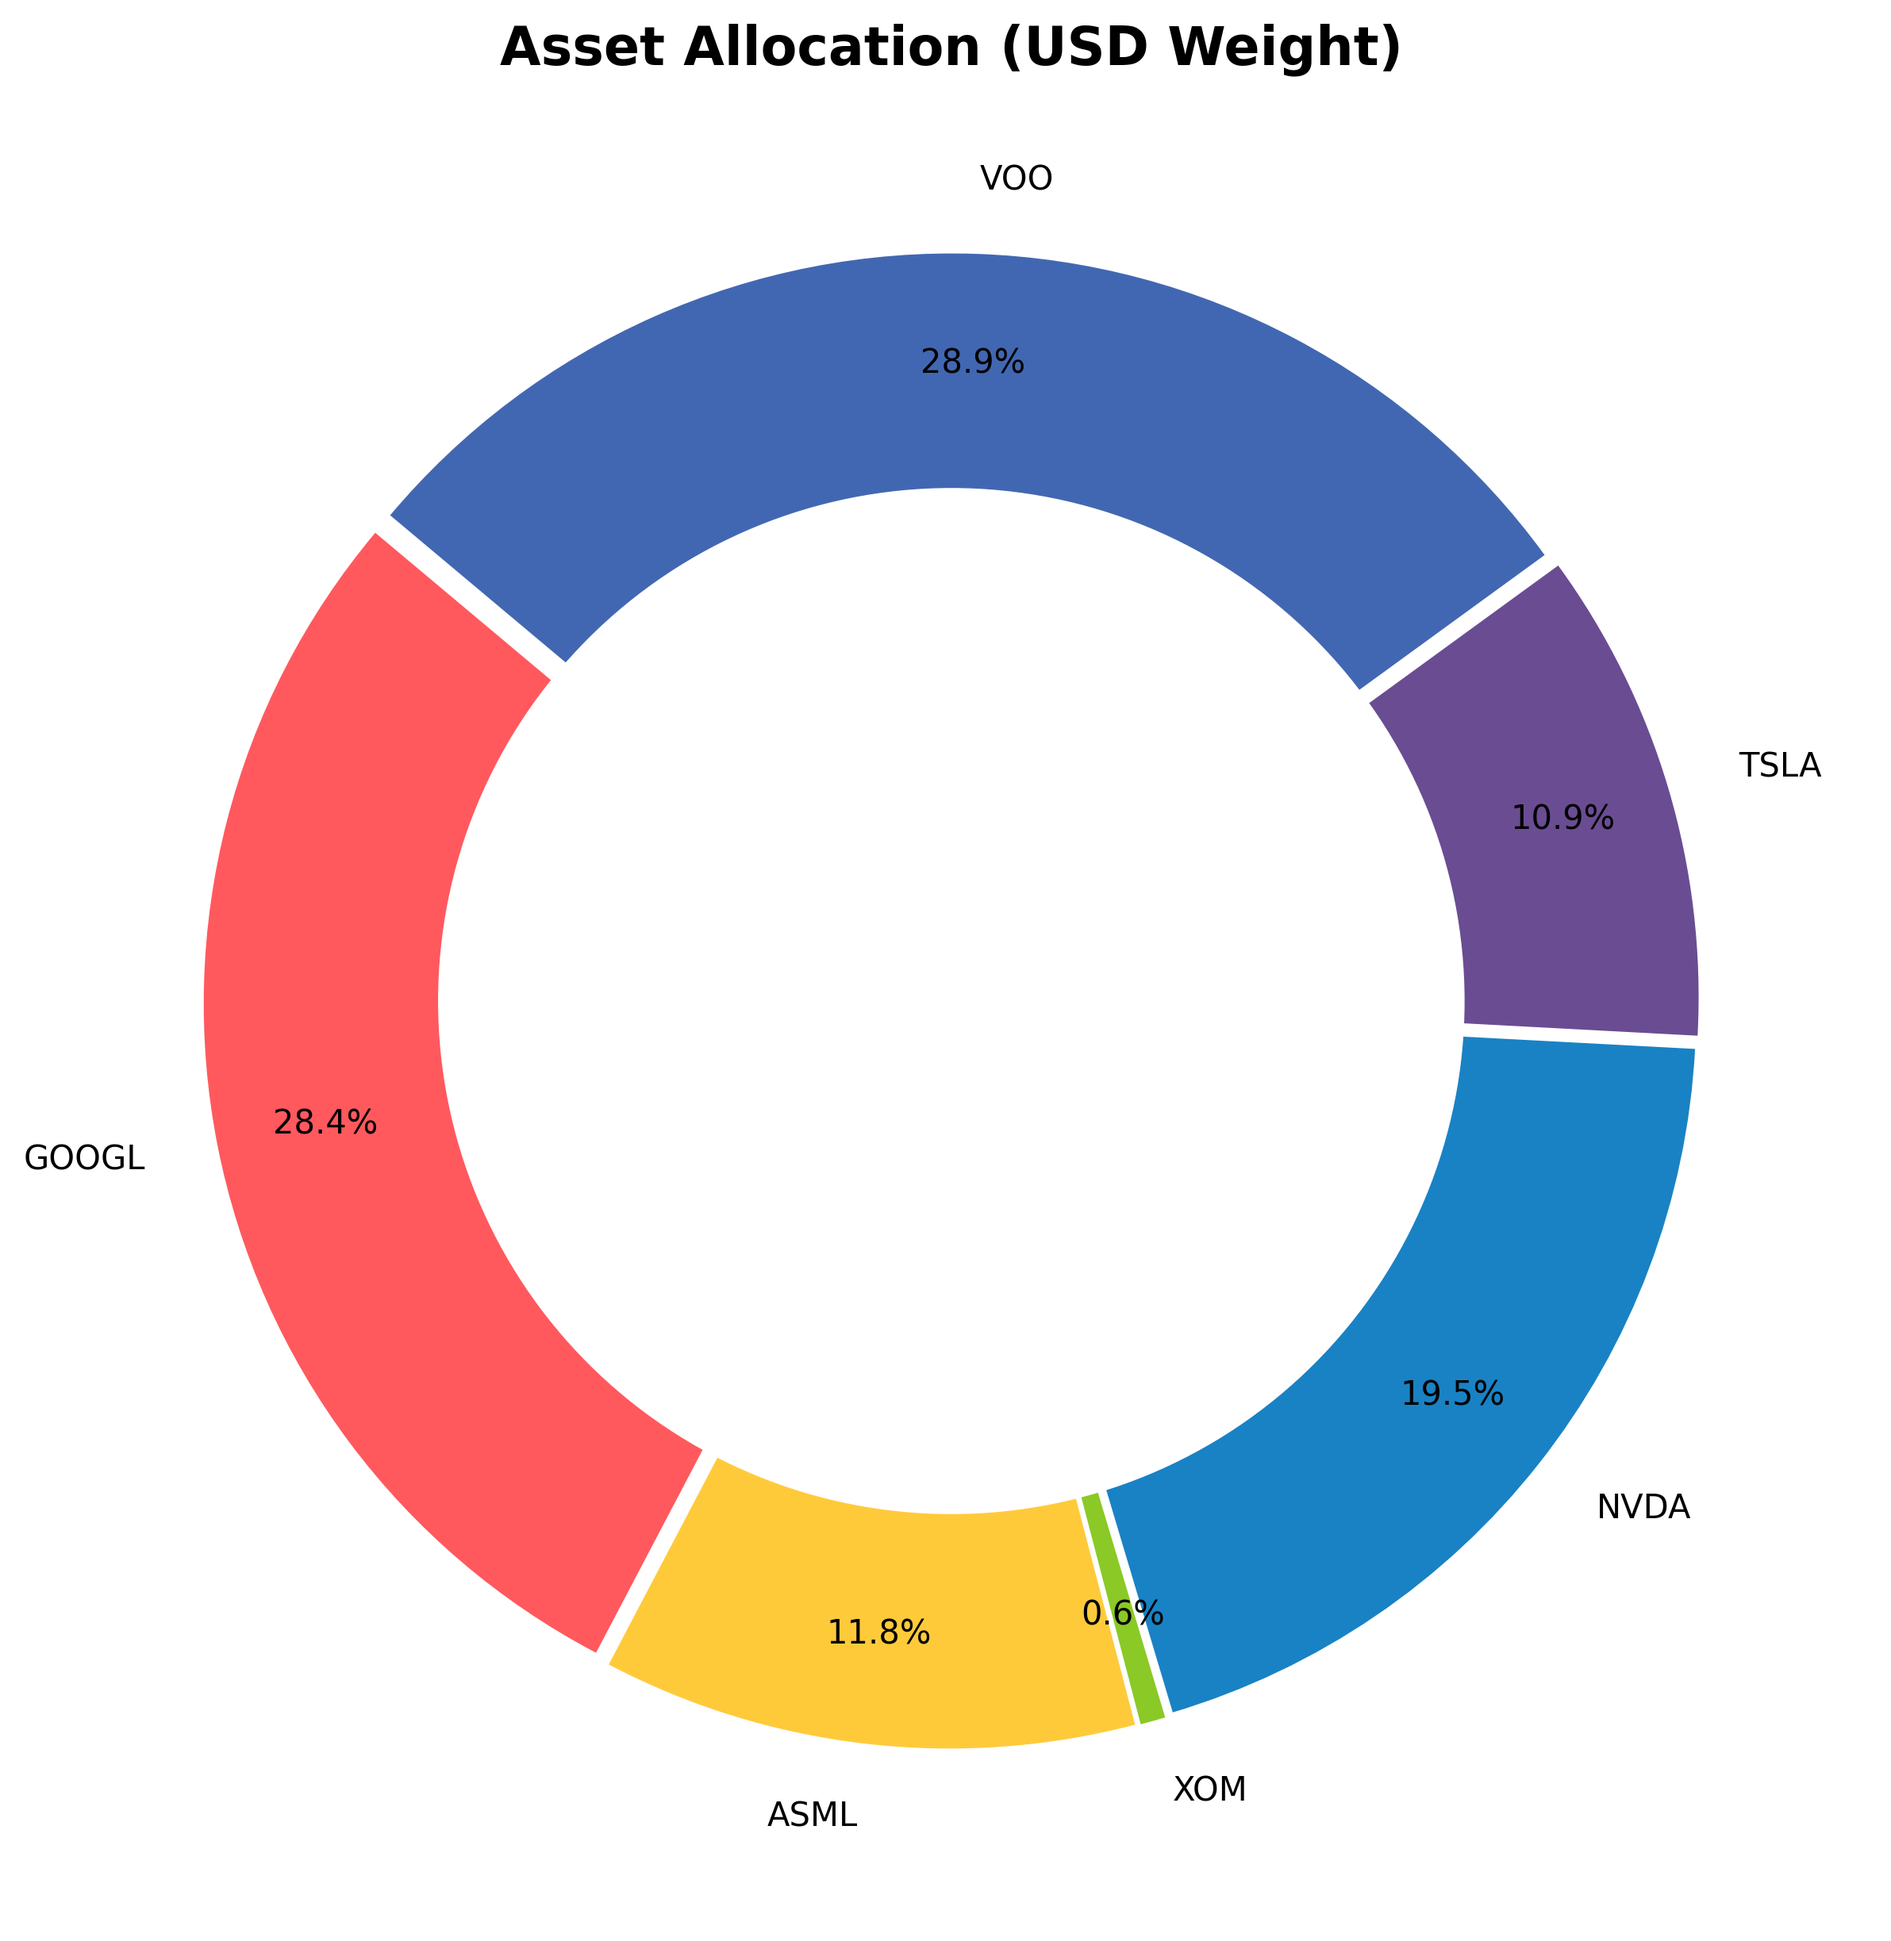
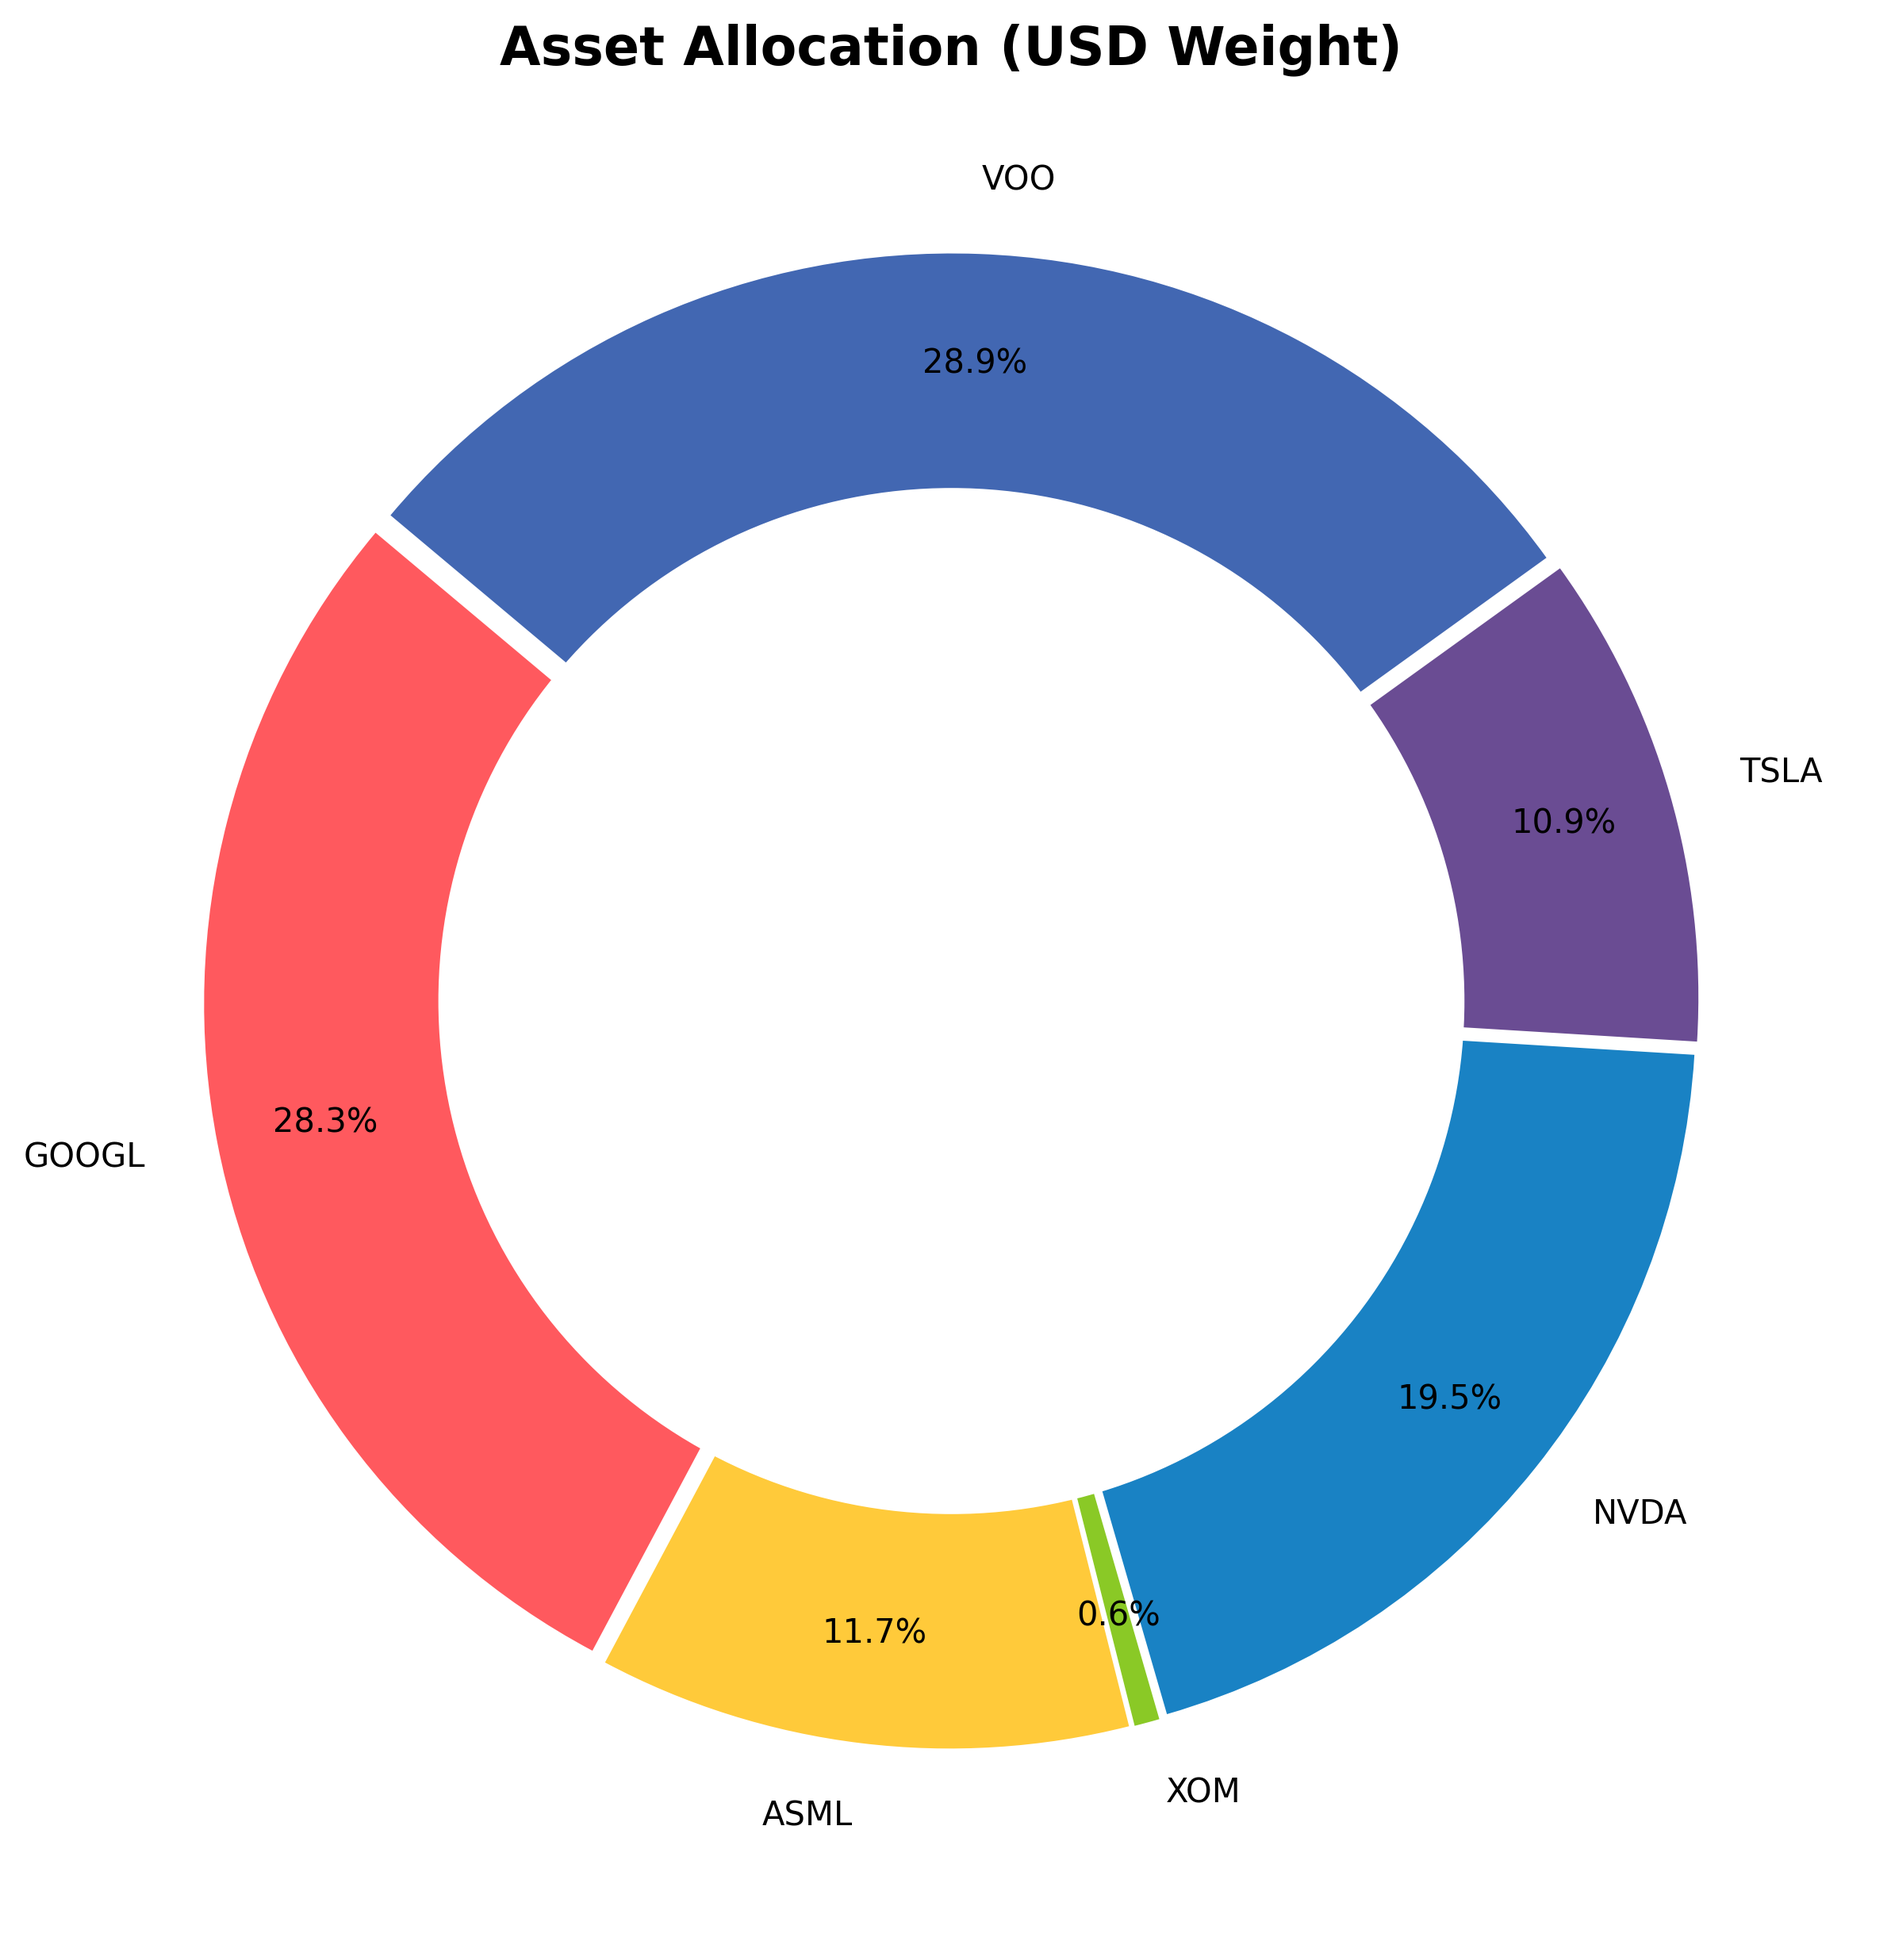
System Run: Analytics & Archive Update [skip ci]

diff --git a/README.md b/README.md
@@ -1,23 +1,23 @@
 # 📊 Portfolio Dashboard | מעקב תיק השקעות
-**Last Update:** 30/07/2026 18:53 | **USD/ILS:** ₪3.053
+**Last Update:** 30/07/2026 20:40 | **USD/ILS:** ₪3.060
 
 ## 💰 Portfolio Summary | סיכום התיק
 | Metric | Value | נתון |
 | :--- | :--- | :--- |
-| **Current Value** | `₪171,915` | **שווי נוכחי** |
-| **Total Invested** | `₪130,899` | **סך השקעה** |
-| **Total Profit/Loss** | `+31.33%` (₪41,016) | **רווח/הפסד כולל** |
-| **Daily Change** | `+1.11%` | **שינוי יומי** |
+| **Current Value** | `₪172,458` | **שווי נוכחי** |
+| **Total Invested** | `₪131,182` | **סך השקעה** |
+| **Total Profit/Loss** | `+31.47%` (₪41,276) | **רווח/הפסד כולל** |
+| **Daily Change** | `+0.51%` | **שינוי יומי** |
 
 ## 📜 Holdings | פירוט החזקות
 | Ticker | Shares | Avg. Cost | Current Price | P&L % | P&L ILS |
 | :--- | :--- | :--- | :--- | :--- | :--- |
-| GOOGL | 48 | $187.99 | $333.31 | 🟢 +77.30% | ₪21,298 |
-| ASML | 4 | $934.51 | $1,656.01 | 🟢 +77.21% | ₪8,812 |
-| XOM | 2 | $126.08 | $155.29 | 🟢 +23.17% | ₪178 |
-| NVDA | 57 | $148.62 | $192.98 | 🟢 +29.85% | ₪7,720 |
-| TSLA | 20 | $436.45 | $305.68 | 🔴 -29.96% | ₪-7,986 |
-| VOO | 24 | $527.38 | $677.40 | 🟢 +28.45% | ₪10,993 |
+| GOOGL | 48 | $187.99 | $332.54 | 🟢 +76.89% | ₪21,231 |
+| ASML | 4 | $934.51 | $1,652.23 | 🟢 +76.80% | ₪8,785 |
+| XOM | 2 | $126.08 | $156.42 | 🟢 +24.06% | ₪186 |
+| NVDA | 57 | $148.62 | $193.20 | 🟢 +30.00% | ₪7,775 |
+| TSLA | 20 | $436.45 | $307.49 | 🔴 -29.55% | ₪-7,892 |
+| VOO | 24 | $527.38 | $679.78 | 🟢 +28.90% | ₪11,192 |
 
 ## 📈 Charts | גרפים
 ![Performance](./data_hub/portfolio_performance.png)
